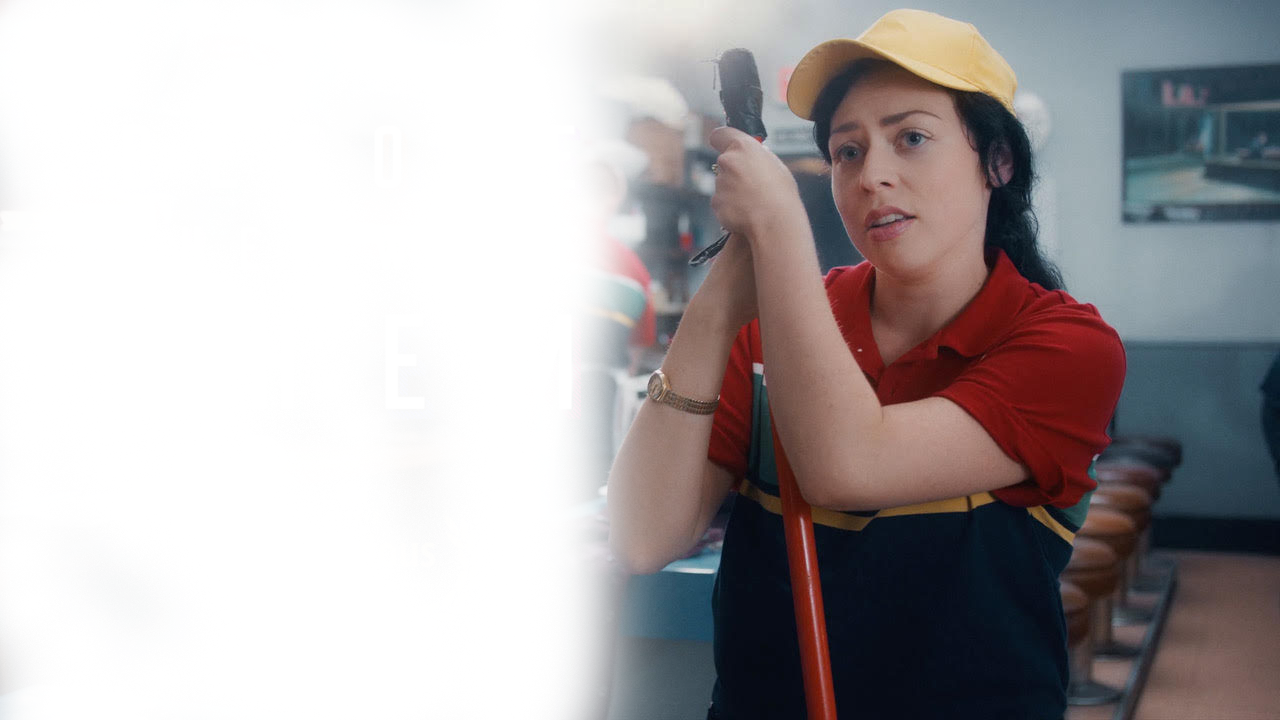
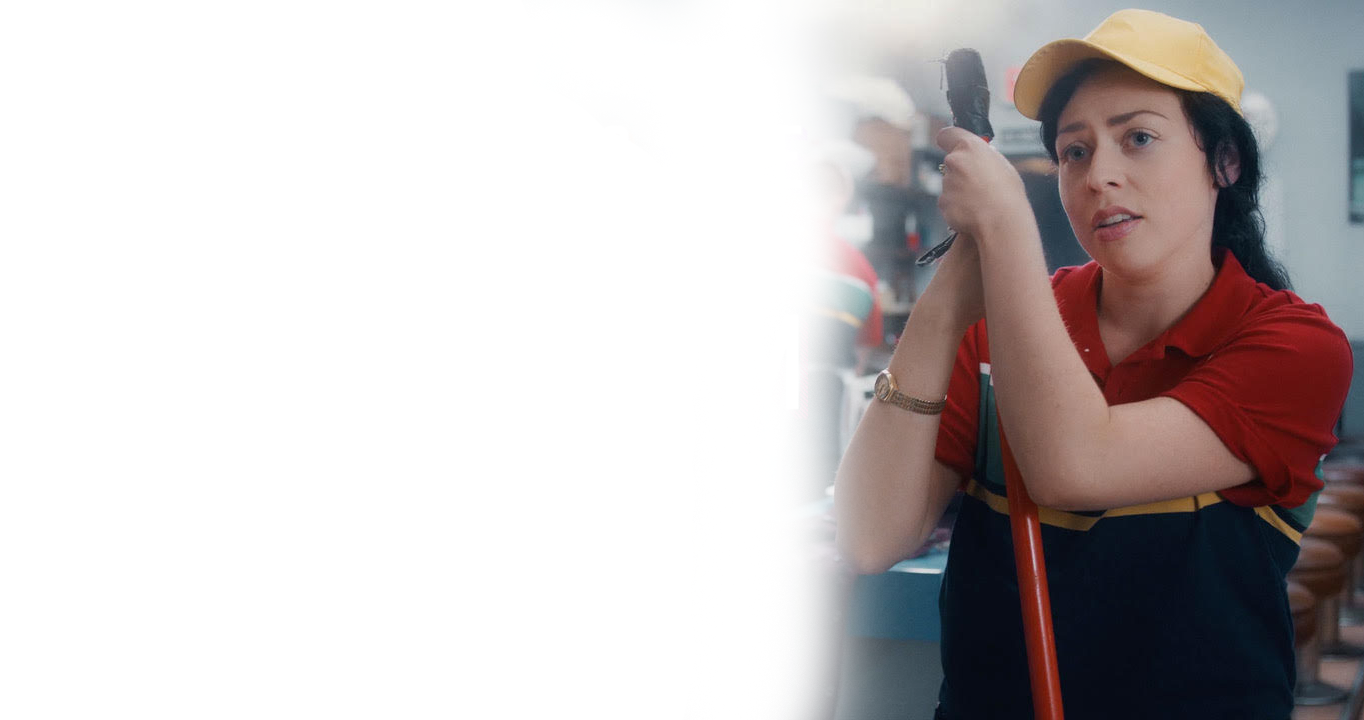
background on about

diff --git a/about.html b/about.html
@@ -97,12 +97,12 @@
 
 		<!-- Page Title
 		============================================= -->
-		<section class="page-title page-title-parallax parallax scroll-detect dark include-header" style="padding: 80px 0; background-image: url(images/project-thumbnail-1-white.png); background-repeat: no-repeat; background-size: cover;">
+		<section class="page-title page-title-parallax parallax scroll-detect dark include-header" style="padding: 80px 0; background-image: url(images/project-thumbnail-1-white.png); background-repeat: no-repeat; background-size: cover; background-position: 65% 50%;">
 			<img src="images/about/parallax.jpg" class="parallax-bg">
 			<div class="container">
 				<div class="page-title-row">
 
-					<div class="col-12 col-xs-12 col-sm-12 col-md-7 col-lg-7 page-title-content" style="padding:7rem 0;">
+					<div class="col-12 col-xs-12 col-sm-12 col-md-7 col-lg-7 page-title-content" style="padding:0;">
 						<h1 style="color:black">What We're About</h1>
 						<br>
 						<span style="color:black; font-size: 1rem; padding:2rem 0;">At Day By Day Pictures, we are more than just a film studio – we are curators of moments and architects of narratives. Nestled in the heart of creativity, our boutique studio thrives on the passion and ingenuity of our dedicated team. Specializing in the art of short films, we embark on a journey where every frame holds the potential to captivate and resonate.
